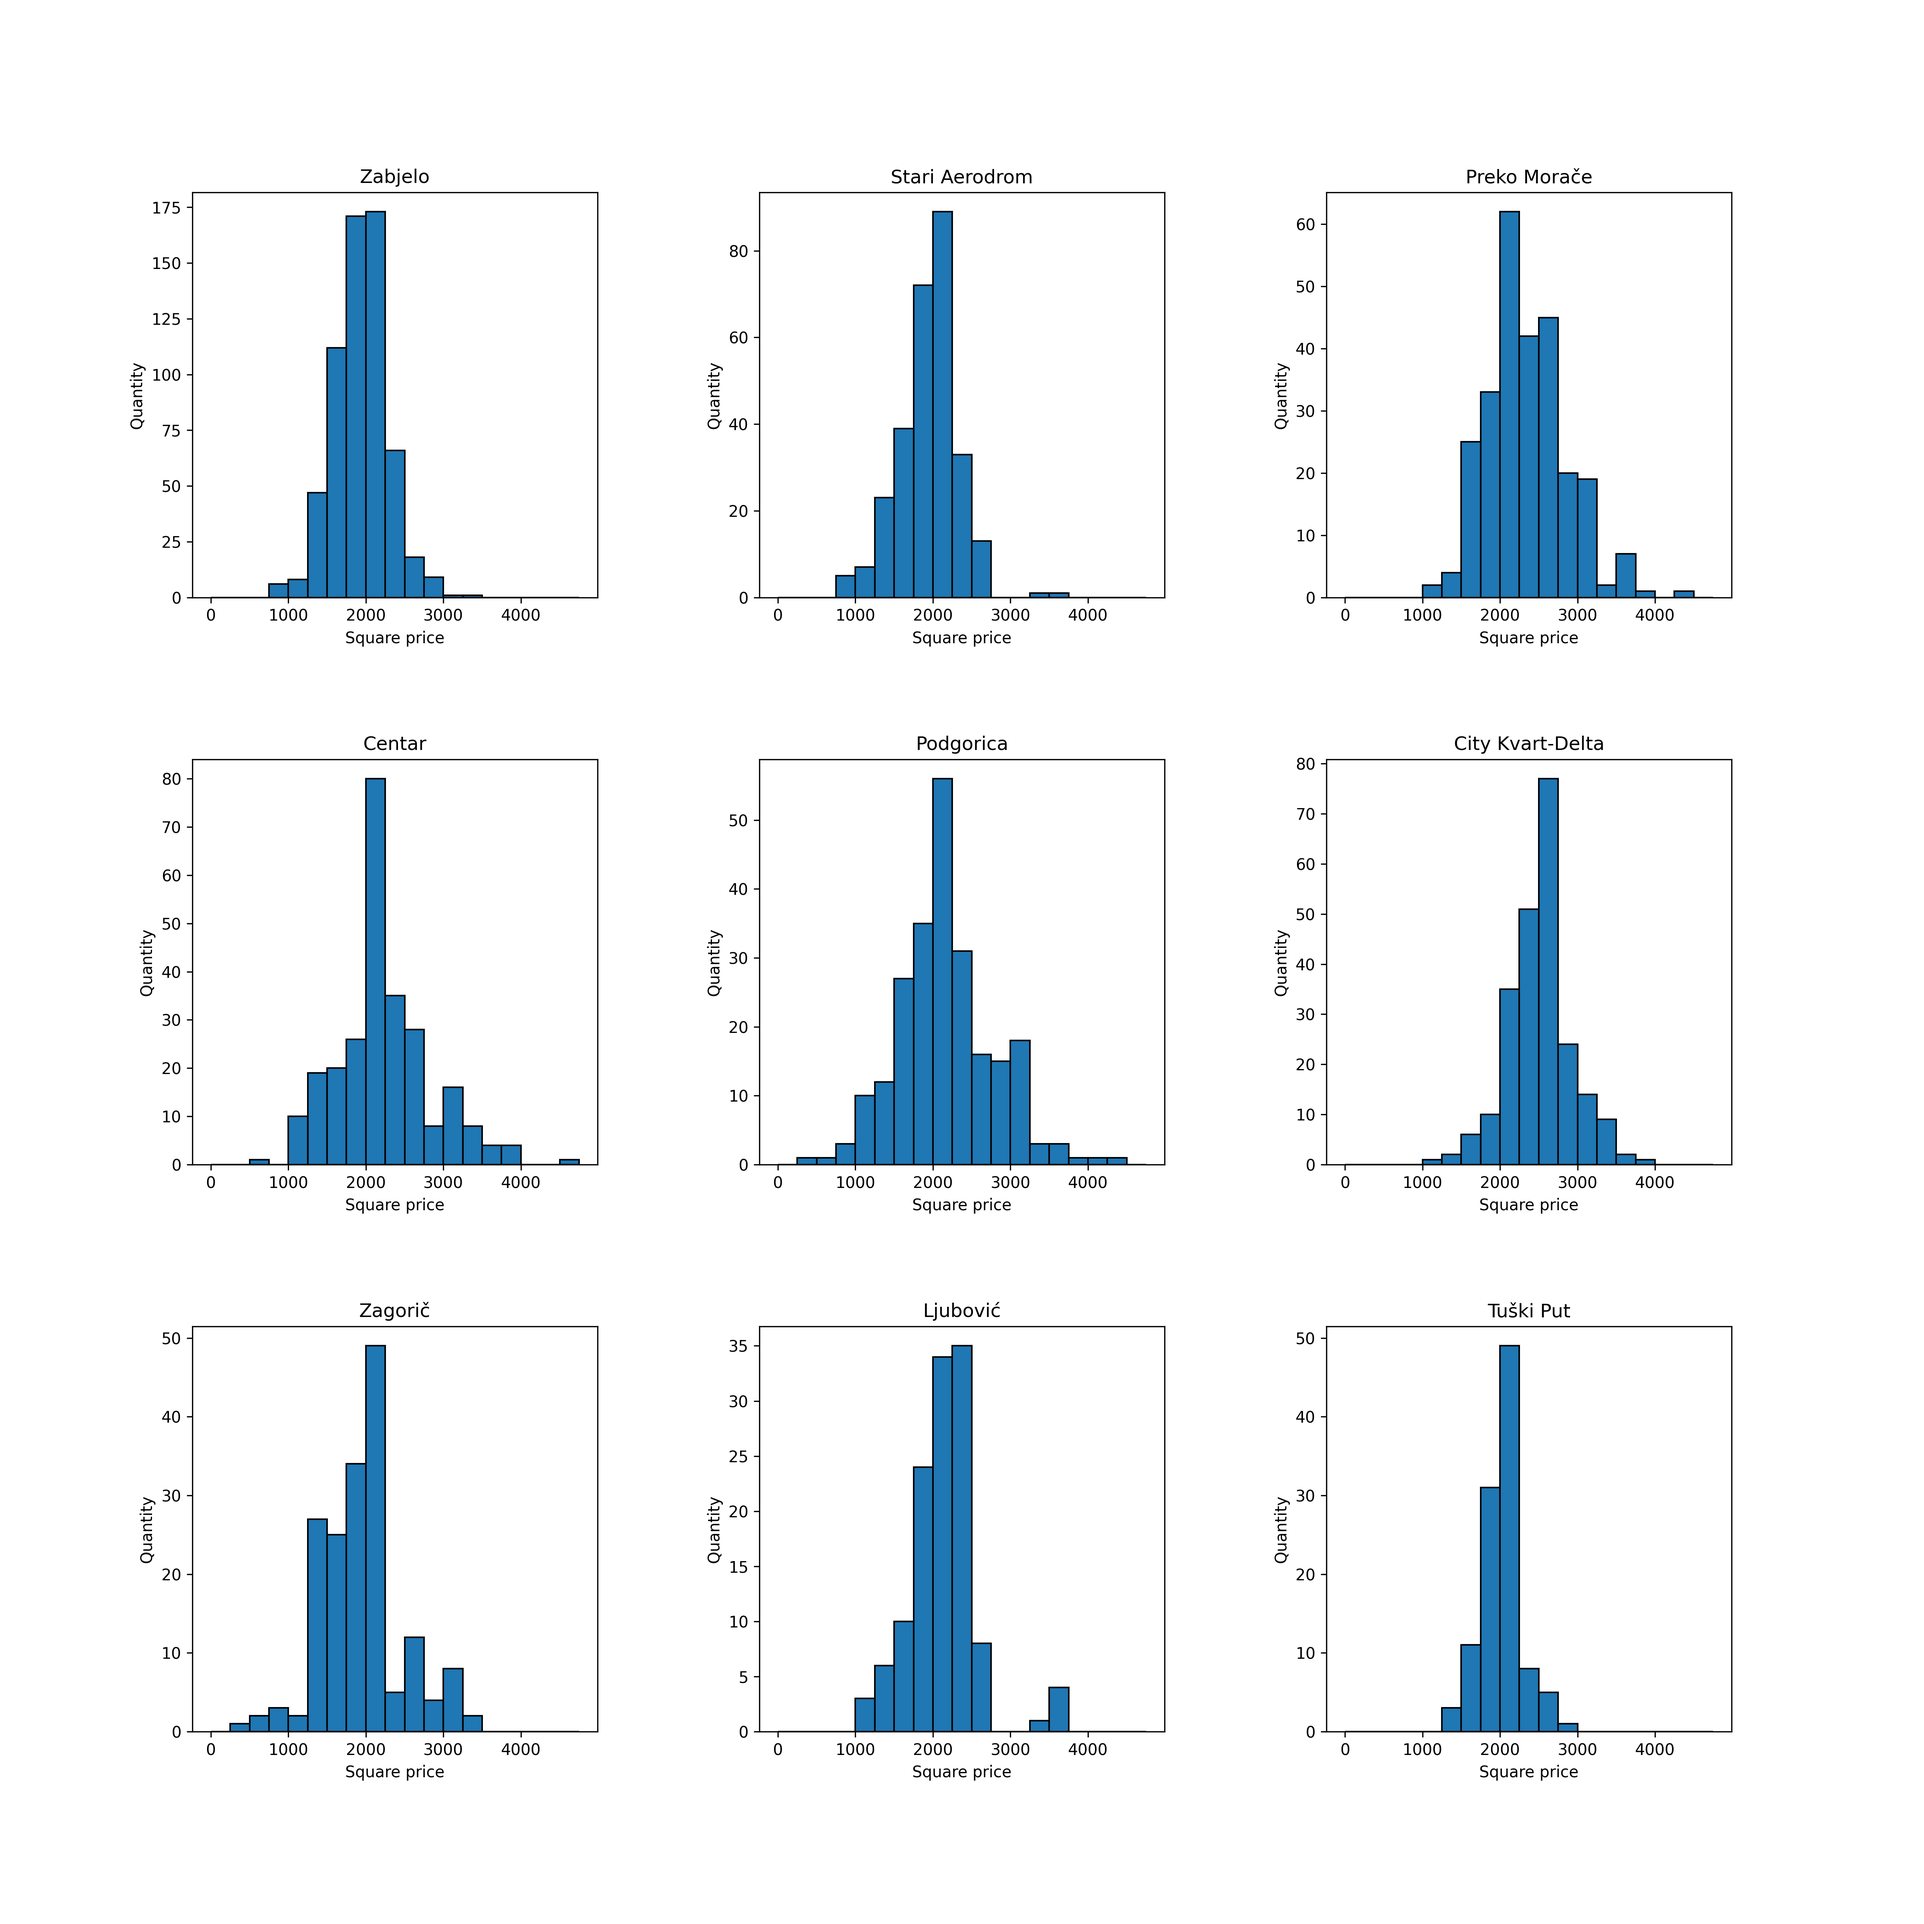
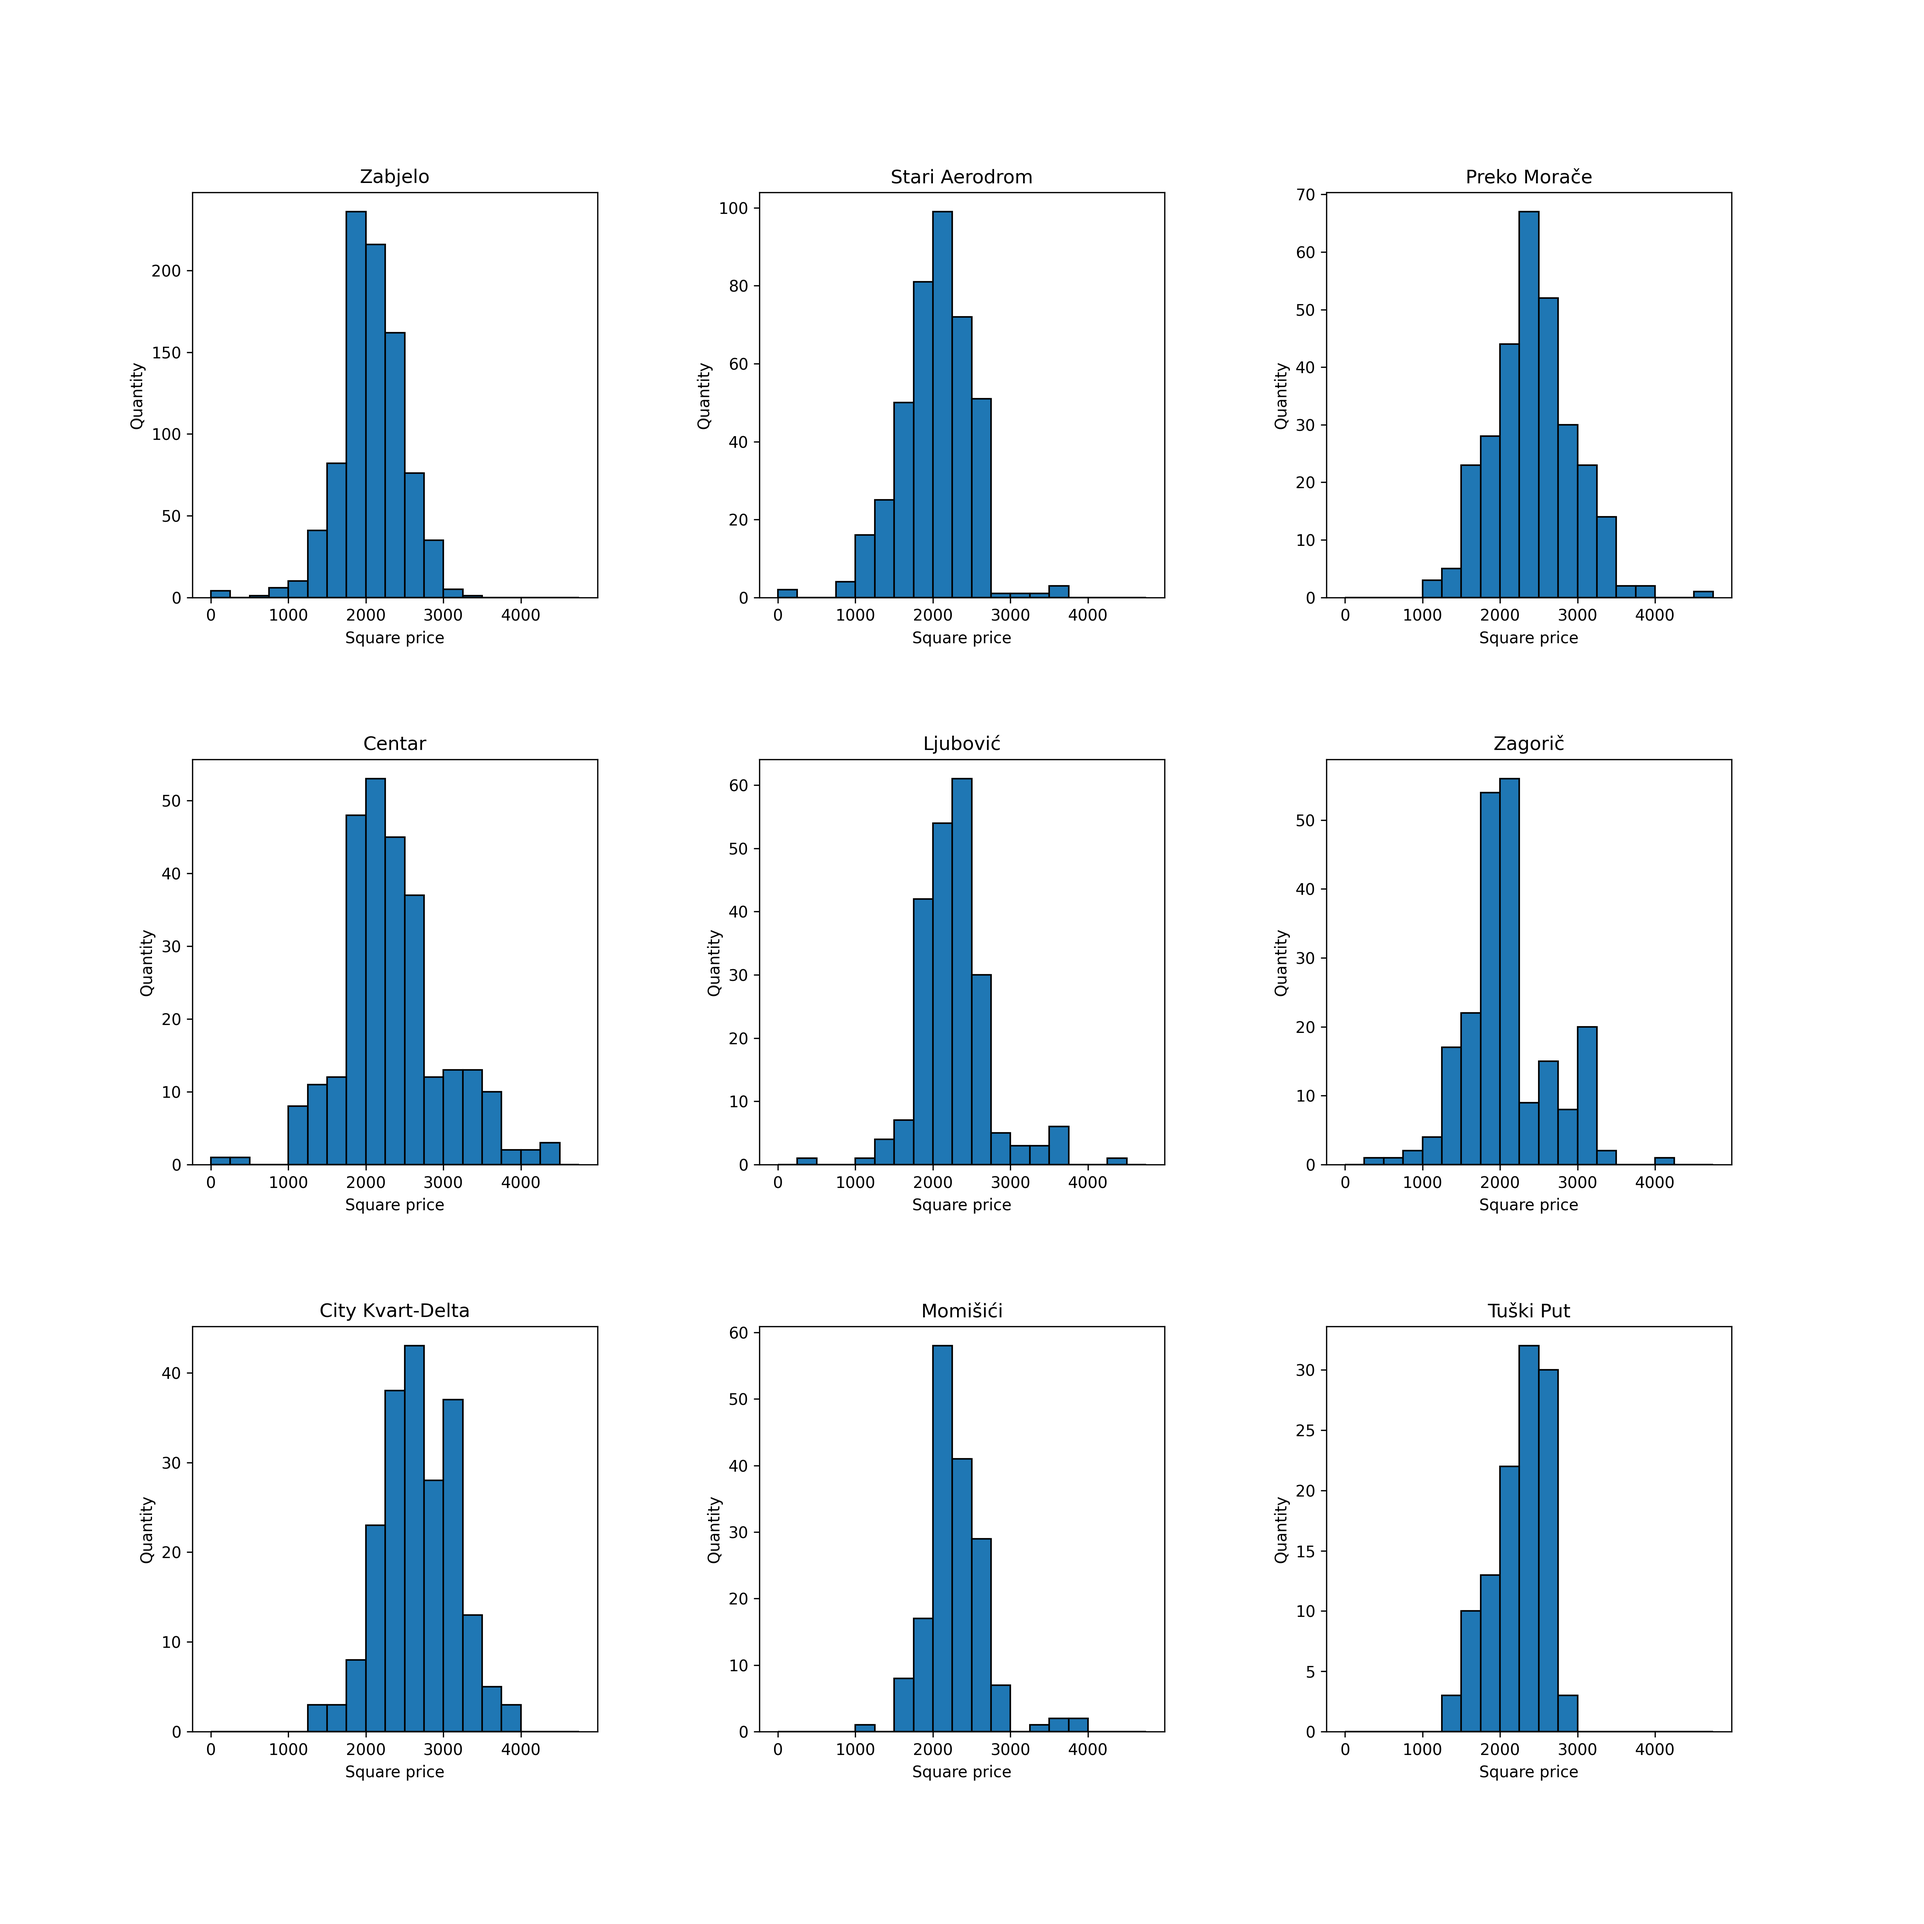
Adding docker settings

diff --git a/backend/main.py b/backend/main.py
@@ -74,6 +74,7 @@ class SubmitObject(BaseModel):
 
 @app.post("/runProgram/")
 def runProgram(submitObject: SubmitObject):
+    print("Run program is runned")
     city, country = submitObject.location.strip().split(",")
     submitObject.location = city
     if country==' Montenegro':
@@ -147,7 +148,7 @@ class Graph(BaseModel):
 
 @app.post("/runGraph")
 def runGraph(graph: Graph):
-    import subprocess
+    import subprocess 
 
     script_name = "graph.py"
     arguments = [str(graph.id_search),str(graph.minPrice),str(graph.maxPrice),str(graph.minSquareMetres),str(graph.maxSquareMetres),str(graph.minSquarePrices),str(graph.maxSquarePrices)]

diff --git a/backend/present.py b/backend/present.py
@@ -265,7 +265,7 @@ def distributionOfSquarePricesCompare(df1, df2):
 
 def run(id_search):
     df = convertToDataFrame(id_search)
-    df = df.loc[ df['square metres']>10 ]
+    df = df.loc[ (df['square metres']>10) & (df['full price']>5000)]
     ratioFullPriceSquare(df,squareMetrePriceLine=True)
     histogramOfLocations(df)
     distibutionOfSquarePrices(df)

diff --git a/backend/realitica.py b/backend/realitica.py
@@ -3,7 +3,6 @@ sys.path.insert(0,'libraries')
 
 from scrap import Init, By
 import time
-from graph import drawGraph
 import pymysql
 import json
 from process import realiticaProcessData
